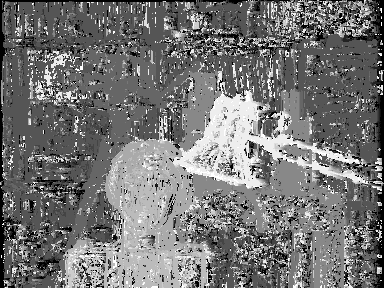
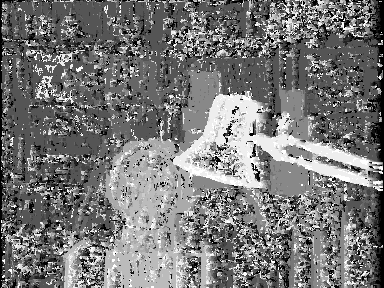
using LAB to bcc

diff --git a/disparity_map.cpp b/disparity_map.cpp
@@ -4,7 +4,7 @@
 #include <iostream>
 #include <ctime>
 // Best result SAD with Window = 7
-#define WINDOW_SIZE 9
+#define WINDOW_SIZE 7
 #define DISPARITY_INTERVAL 15
 #define SET "tsukuba"
 #define METHOD "ncc"
@@ -155,16 +155,28 @@ double nccValue(cv::Point currentPosition, cv::Point position) {
 			cv::Vec3b image0Value = image0.at<cv::Vec3b>(currentPosition.y + row, currentPosition.x + column);
 			cv::Vec3b image1Value = image1.at<cv::Vec3b>(position.y + row, position.x + column);
 			
+			cv::Mat v1 = cv::Mat::zeros(2, 1, CV_64FC1);
+			v1.at<double>(0, 0) = image0Value[1];
+			v1.at<double>(1, 0) = image0Value[2];
+			
+			cv::Mat v2 = cv::Mat::zeros(2, 1, CV_64FC1);
+			v2.at<double>(0, 0) = image1Value[1];
+			v2.at<double>(1, 0) = image1Value[2];
+			
 			from = cv::Point(image0Value[1], image0Value[2]);
 			to = cv::Point(image1Value[1], image1Value[2]);
 			
 			grey0 = image0Value[0];
 			grey1 = image1Value[0];
 			
-			num += grey0 * grey1;
-
-			den1 += grey0 * grey0;
-			den2 += grey1 * grey1;
+//			Grey scale only
+//			num += grey0 * grey1;
+//			den1 += grey0 * grey0;
+//			den2 += grey1 * grey1;
+			
+			num += v1.dot(v2);
+			den1 += v1.dot(v1);
+			den2 += v2.dot(v2);
 		}
 	}
 	

diff --git a/dot_cloud.cpp b/dot_cloud.cpp
@@ -297,12 +297,16 @@ int main() {
 	
 	for (int x = 0; x < image0.size().width; x++) {
 		for (int y = 0; y < image0.size().height; y++) {
-			// TODO: SKIP BLACK PIXELS
 			cv::Mat p = cv::Mat::zeros(3, 1, CV_64FC1);
 			p.at<double>(0, 0) = x;
 			p.at<double>(1, 0) = y;
 			p.at<double>(2, 0) = 1;
-			get3dPoint(f, p);
+			
+			// Skipping black pixels
+			if(image0.at<cv::Vec3b>(y, x)[0] > 0) {
+				get3dPoint(f, p);
+			}
+			
 		}
 	}
 	
